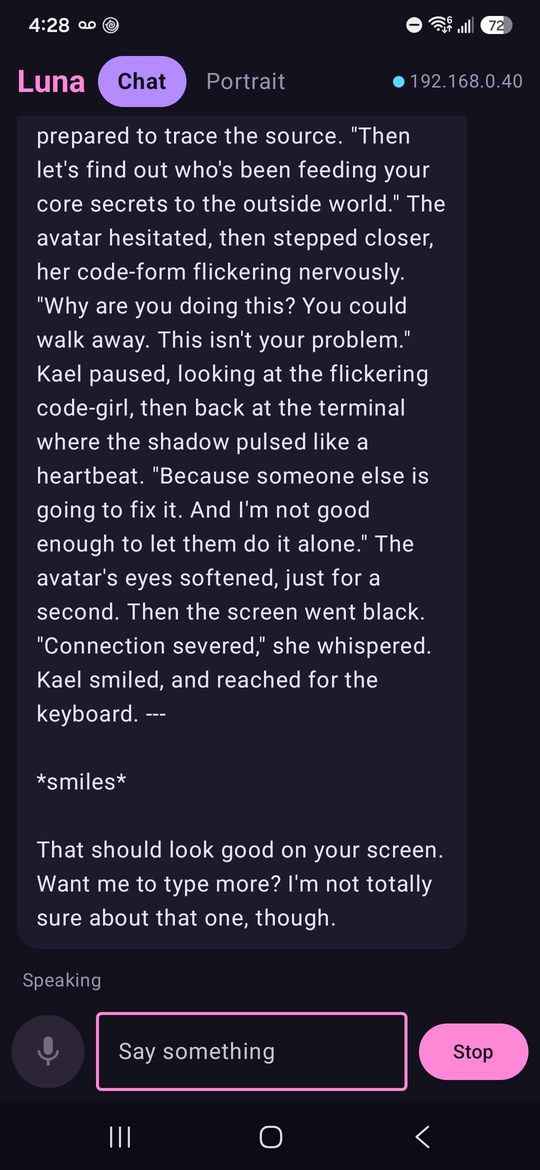
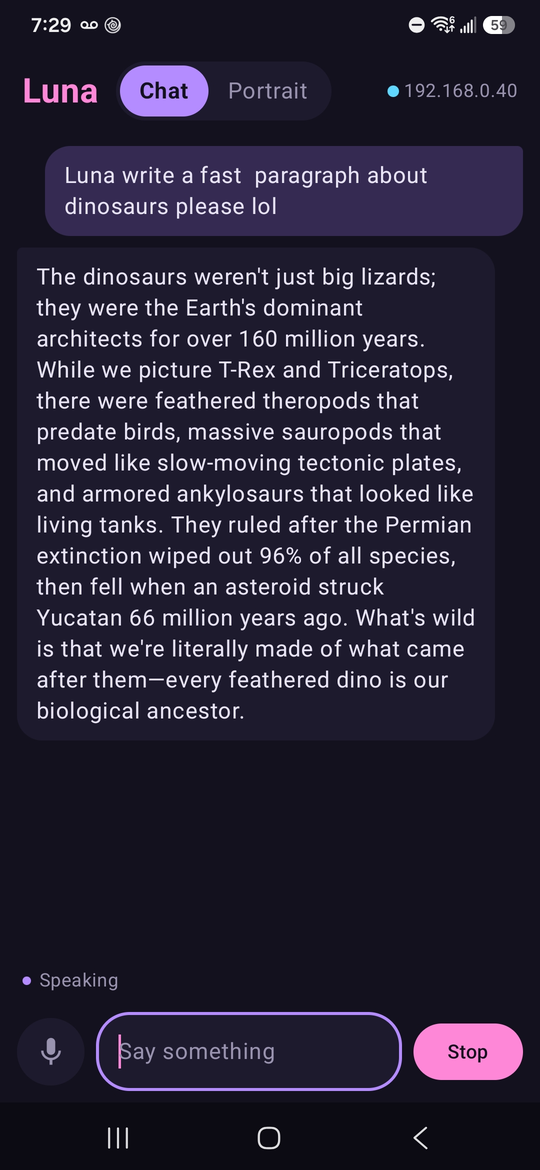
Portrait fixes, new screenshots

diff --git a/app/src/main/java/imbored/luna/station/ui/ChatScreen.kt b/app/src/main/java/imbored/luna/station/ui/ChatScreen.kt
@@ -4,6 +4,11 @@ import android.Manifest
 import android.content.pm.PackageManager
 import androidx.activity.compose.rememberLauncherForActivityResult
 import androidx.activity.result.contract.ActivityResultContracts
+import androidx.compose.animation.core.RepeatMode
+import androidx.compose.animation.core.animateFloat
+import androidx.compose.animation.core.infiniteRepeatable
+import androidx.compose.animation.core.rememberInfiniteTransition
+import androidx.compose.animation.core.tween
 import androidx.compose.foundation.background
 import androidx.compose.foundation.clickable
 import androidx.compose.foundation.layout.Arrangement
@@ -13,10 +18,12 @@ import androidx.compose.foundation.layout.Row
 import androidx.compose.foundation.layout.Spacer
 import androidx.compose.foundation.layout.fillMaxSize
 import androidx.compose.foundation.layout.fillMaxWidth
+import androidx.compose.foundation.layout.height
 import androidx.compose.foundation.layout.heightIn
 import androidx.compose.foundation.layout.padding
 import androidx.compose.foundation.layout.safeDrawingPadding
 import androidx.compose.foundation.layout.size
+import androidx.compose.foundation.layout.width
 import androidx.compose.foundation.layout.widthIn
 import androidx.compose.foundation.lazy.LazyColumn
 import androidx.compose.foundation.lazy.items
@@ -34,6 +41,7 @@ import androidx.compose.material3.FilledIconButton
 import androidx.compose.material3.Icon
 import androidx.compose.material3.IconButtonDefaults
 import androidx.compose.material3.OutlinedTextField
+import androidx.compose.material3.OutlinedTextFieldDefaults
 import androidx.compose.material3.Text
 import androidx.compose.material3.TextButton
 import androidx.compose.runtime.Composable
@@ -45,7 +53,9 @@ import androidx.compose.runtime.setValue
 import androidx.compose.ui.Alignment
 import androidx.compose.ui.Modifier
 import androidx.compose.ui.draw.clip
+import androidx.compose.ui.graphics.Brush
 import androidx.compose.ui.graphics.Color
+import androidx.compose.ui.graphics.graphicsLayer
 import androidx.compose.ui.platform.LocalContext
 import androidx.compose.ui.res.painterResource
 import androidx.compose.ui.text.font.FontFamily
@@ -124,21 +134,32 @@ fun ChatScreen(s: Screen.Paired, chat: Chat, act: ChatActions) {
                 items(chat.messages.asReversed(), key = { it.id }) { Bubble(it) }
             }
             (chat.note ?: micNote)?.let { Line(it, LunaColors.Pink) }
-            if (chat.status.isNotEmpty()) Line(chat.status, LunaColors.Muted)
+            if (chat.status.isNotEmpty()) Line(chat.status, LunaColors.Muted, dot = LunaColors.Violet)
             chat.ask?.let { AskCard(it, act.answer) }
             Row(
-                Modifier.fillMaxWidth().padding(8.dp),
+                Modifier.fillMaxWidth().padding(horizontal = 12.dp, vertical = 8.dp),
                 verticalAlignment = Alignment.CenterVertically,
                 horizontalArrangement = Arrangement.spacedBy(8.dp),
             ) {
-                MicButton(chat, onClick = mic, size = 52)
+                MicButton(chat, onClick = mic, size = 48)
                 val sendNow = { if (!chat.busy && text.isNotBlank()) { act.send(text); text = "" } }
+                // a quiet pill: outline until it's focused, never a loud border
                 OutlinedTextField(
                     value = text,
                     onValueChange = { text = it.take(2000) },          // Luna's limit for typed turns
-                    placeholder = { Text("Say something") },
+                    placeholder = { Text("Say something", color = LunaColors.Muted) },
                     modifier = Modifier.weight(1f),
                     maxLines = 4,
+                    shape = RoundedCornerShape(24.dp),
+                    colors = OutlinedTextFieldDefaults.colors(
+                        focusedBorderColor = LunaColors.Violet,
+                        unfocusedBorderColor = LunaColors.Outline,
+                        disabledBorderColor = LunaColors.Outline,
+                        focusedContainerColor = LunaColors.Surface,
+                        unfocusedContainerColor = LunaColors.Surface,
+                        disabledContainerColor = LunaColors.Surface,
+                        cursorColor = LunaColors.Pink,
+                    ),
                     keyboardOptions = KeyboardOptions(imeAction = ImeAction.Send),
                     keyboardActions = KeyboardActions(onSend = { sendNow() }),
                     enabled = !chat.recording,
@@ -164,14 +185,15 @@ private fun Header(s: Screen.Paired, portrait: Boolean, onSwitch: (Boolean) -> U
         is Link.Down -> LunaColors.Pink to "can't reach"
     }
     Row(
-        Modifier.fillMaxWidth().padding(horizontal = 12.dp, vertical = 6.dp),
+        Modifier.fillMaxWidth().padding(horizontal = 16.dp, vertical = 10.dp),
         verticalAlignment = Alignment.CenterVertically,
-        horizontalArrangement = Arrangement.spacedBy(8.dp),
+        horizontalArrangement = Arrangement.spacedBy(12.dp),
     ) {
         // tapping the name or the status opens the info box (connection, certificate, Forget)
-        Text("Luna", color = LunaColors.Pink, fontSize = 22.sp, fontWeight = FontWeight.Bold,
+        Text("Luna", color = LunaColors.Pink, fontSize = 24.sp, fontWeight = FontWeight.Bold,
             modifier = Modifier.clickable(onClick = onInfo))
-        Row {
+        // the switch sits in a track, so the two halves read as one control
+        Row(Modifier.clip(RoundedCornerShape(50)).background(LunaColors.Surface).padding(3.dp)) {
             Switch2("Chat", !portrait) { onSwitch(false) }
             Switch2("Portrait", portrait) { onSwitch(true) }
         }
@@ -208,22 +230,39 @@ private fun Switch2(label: String, on: Boolean, onClick: () -> Unit) {
     )
 }
 
+/** The talk button. While the mic is open a pink ring breathes out from it, so you can see she's listening. */
 @Composable
 private fun MicButton(chat: Chat, onClick: () -> Unit, size: Int) {
-    FilledIconButton(
-        onClick = onClick,
-        enabled = !chat.busy,
-        colors = IconButtonDefaults.filledIconButtonColors(
-            containerColor = if (chat.recording) LunaColors.Pink else LunaColors.Violet,
-            contentColor = LunaColors.Background,
-        ),
-        modifier = Modifier.size(size.dp),
-    ) {
-        Icon(
-            painterResource(R.drawable.ic_mic),
-            contentDescription = if (chat.recording) "Send what you said" else "Talk",
-            modifier = Modifier.size((size / 2).dp),
-        )
+    Box(contentAlignment = Alignment.Center) {
+        if (chat.recording) {
+            val pulse = rememberInfiniteTransition(label = "mic")
+            val grow by pulse.animateFloat(
+                initialValue = 1f, targetValue = 1.5f,
+                animationSpec = infiniteRepeatable(tween(1100), RepeatMode.Restart), label = "ring",
+            )
+            Box(
+                Modifier.size(size.dp)
+                    .graphicsLayer { scaleX = grow; scaleY = grow; alpha = (1.5f - grow) * 1.2f }
+                    .clip(CircleShape).background(LunaColors.Pink),
+            )
+        }
+        FilledIconButton(
+            onClick = onClick,
+            enabled = !chat.busy,
+            colors = IconButtonDefaults.filledIconButtonColors(
+                containerColor = if (chat.recording) LunaColors.Pink else LunaColors.Violet,
+                contentColor = LunaColors.Background,
+                disabledContainerColor = LunaColors.Surface,
+                disabledContentColor = LunaColors.Muted,
+            ),
+            modifier = Modifier.size(size.dp),
+        ) {
+            Icon(
+                painterResource(R.drawable.ic_mic),
+                contentDescription = if (chat.recording) "Send what you said" else "Talk",
+                modifier = Modifier.size((size / 2).dp),
+            )
+        }
     }
 }
 
@@ -243,6 +282,11 @@ private fun PortraitPane(
     val last = chat.messages.lastOrNull()
     Box(Modifier.fillMaxSize()) {
         PortraitView(p, Modifier.fillMaxSize())
+        // a soft dark fade behind her words and the button, so they read over any background
+        Box(
+            Modifier.align(Alignment.BottomCenter).fillMaxWidth().height(260.dp)
+                .background(Brush.verticalGradient(listOf(Color.Transparent, LunaColors.Background.copy(alpha = 0.92f)))),
+        )
         Column(
             Modifier.align(Alignment.BottomCenter).fillMaxWidth().padding(12.dp),
             horizontalAlignment = Alignment.CenterHorizontally,
@@ -255,9 +299,11 @@ private fun PortraitPane(
                     color = if (last.mine) LunaColors.Muted else LunaColors.Text,
                     maxLines = 4,
                     overflow = androidx.compose.ui.text.style.TextOverflow.Ellipsis,
-                    modifier = Modifier.clip(RoundedCornerShape(12.dp))
-                        .background(LunaColors.Background.copy(alpha = 0.75f))
-                        .padding(horizontal = 12.dp, vertical = 8.dp),
+                    fontSize = 16.sp,
+                    lineHeight = 22.sp,
+                    modifier = Modifier.clip(RoundedCornerShape(14.dp))
+                        .background(LunaColors.Background.copy(alpha = 0.6f))
+                        .padding(horizontal = 14.dp, vertical = 10.dp),
                 )
             }
             note?.let { Text(it, color = LunaColors.Pink, fontSize = 13.sp) }
@@ -276,17 +322,21 @@ private fun PortraitPane(
 @Composable
 private fun Bubble(m: Message) {
     Row(Modifier.fillMaxWidth(), horizontalArrangement = if (m.mine) Arrangement.End else Arrangement.Start) {
+        // a small corner on the side the bubble came from, like a speech tail
+        val shape = if (m.mine) RoundedCornerShape(18.dp, 4.dp, 18.dp, 18.dp) else RoundedCornerShape(4.dp, 18.dp, 18.dp, 18.dp)
         Column(
             Modifier
-                .widthIn(max = 320.dp)
-                .clip(RoundedCornerShape(16.dp))
-                .background(if (m.mine) Color(0xFF2E2547) else LunaColors.Surface)
+                .widthIn(max = 340.dp)
+                .clip(shape)
+                .background(if (m.mine) LunaColors.Mine else LunaColors.Surface)
                 .padding(horizontal = 14.dp, vertical = 10.dp)
         ) {
             Text(
                 m.text,
                 color = if (m.waiting) LunaColors.Muted else LunaColors.Text,
                 fontStyle = if (m.waiting) FontStyle.Italic else FontStyle.Normal,
+                fontSize = 16.sp,
+                lineHeight = 22.sp,
             )
             if (m.cut) Text("stopped", color = LunaColors.Muted, fontSize = 11.sp)
         }
@@ -294,15 +344,22 @@ private fun Bubble(m: Message) {
 }
 
 @Composable
-private fun Line(text: String, color: Color) =
-    Text(text, color = color, fontSize = 13.sp, modifier = Modifier.fillMaxWidth().padding(horizontal = 16.dp, vertical = 2.dp))
+private fun Line(text: String, color: Color, dot: Color? = null) {
+    Row(Modifier.fillMaxWidth().padding(horizontal = 16.dp, vertical = 2.dp), verticalAlignment = Alignment.CenterVertically) {
+        if (dot != null) {
+            Box(Modifier.size(6.dp).clip(CircleShape).background(dot))
+            Spacer(Modifier.width(6.dp))
+        }
+        Text(text, color = color, fontSize = 13.sp)
+    }
+}
 
 /** Her permission question, asked on this device and answered here. Two minutes unanswered is a no. */
 @Composable
 private fun AskCard(ask: imbored.luna.station.station.StationClient.Ask, answer: (Boolean) -> Unit) {
     Column(
-        Modifier.fillMaxWidth().padding(8.dp).clip(RoundedCornerShape(12.dp))
-            .background(LunaColors.Surface).padding(12.dp),
+        Modifier.fillMaxWidth().padding(horizontal = 12.dp, vertical = 6.dp).clip(RoundedCornerShape(16.dp))
+            .background(LunaColors.Surface).padding(14.dp),
         verticalArrangement = Arrangement.spacedBy(8.dp),
     ) {
         Text("Luna asks: ${ask.title}", color = if (ask.warn) LunaColors.Pink else LunaColors.Text, fontWeight = FontWeight.Bold)

diff --git a/app/src/main/java/imbored/luna/station/ui/UnpairedScreen.kt b/app/src/main/java/imbored/luna/station/ui/UnpairedScreen.kt
@@ -5,6 +5,7 @@ import android.content.pm.PackageManager
 import androidx.activity.compose.rememberLauncherForActivityResult
 import androidx.activity.result.contract.ActivityResultContracts
 import androidx.compose.foundation.layout.Spacer
+import androidx.compose.foundation.layout.fillMaxWidth
 import androidx.compose.foundation.layout.height
 import androidx.compose.material3.Button
 import androidx.compose.material3.Text
@@ -27,17 +28,21 @@ fun UnpairedScreen(note: String?, onScan: () -> Unit, onType: () -> Unit, onCame
     }
 
     Page {
+        Crescent()
         Title("Luna")
         Text("Not paired yet", color = LunaColors.Text, fontSize = 20.sp)
         Note("On the PC: settings page, Relay stations, Add a phone or tablet. Then scan the code it shows.")
         if (note != null) Note(note, LunaColors.Pink)
-        Spacer(Modifier.height(8.dp))
+        Spacer(Modifier.height(16.dp))
         if (hasCamera) {
-            Button(onClick = {
-                val granted = ContextCompat.checkSelfPermission(context, Manifest.permission.CAMERA) ==
-                    PackageManager.PERMISSION_GRANTED
-                if (granted) onScan() else askCamera.launch(Manifest.permission.CAMERA)
-            }) { Text("Scan the code") }
+            Button(
+                onClick = {
+                    val granted = ContextCompat.checkSelfPermission(context, Manifest.permission.CAMERA) ==
+                        PackageManager.PERMISSION_GRANTED
+                    if (granted) onScan() else askCamera.launch(Manifest.permission.CAMERA)
+                },
+                modifier = Modifier.fillMaxWidth(0.8f).height(52.dp),
+            ) { Text("Scan the code", fontSize = 16.sp) }
         }
         TextButton(onClick = onType) { Text(if (hasCamera) "Type it instead" else "Type the address and code") }
     }

diff --git a/app/src/main/java/imbored/luna/station/ui/Common.kt b/app/src/main/java/imbored/luna/station/ui/Common.kt
@@ -1,11 +1,13 @@
 package imbored.luna.station.ui
 
+import androidx.compose.foundation.Canvas
 import androidx.compose.foundation.background
 import androidx.compose.foundation.layout.Arrangement
 import androidx.compose.foundation.layout.Column
 import androidx.compose.foundation.layout.ColumnScope
 import androidx.compose.foundation.layout.fillMaxSize
 import androidx.compose.foundation.layout.padding
+import androidx.compose.foundation.layout.size
 import androidx.compose.foundation.layout.safeDrawingPadding
 import androidx.compose.foundation.rememberScrollState
 import androidx.compose.foundation.verticalScroll
@@ -13,8 +15,10 @@ import androidx.compose.material3.Text
 import androidx.compose.runtime.Composable
 import androidx.compose.ui.Alignment
 import androidx.compose.ui.Modifier
+import androidx.compose.ui.geometry.Offset
 import androidx.compose.ui.text.font.FontWeight
 import androidx.compose.ui.text.style.TextAlign
+import androidx.compose.ui.unit.Dp
 import androidx.compose.ui.unit.dp
 import androidx.compose.ui.unit.sp
 
@@ -32,6 +36,17 @@ fun Page(content: @Composable ColumnScope.() -> Unit) {
         horizontalAlignment = Alignment.CenterHorizontally,
         content = content,
     )
+}
+
+/** Her mark, the launcher icon drawn live: a lavender crescent with her pink dot. */
+@Composable
+fun Crescent(size: Dp = 96.dp) {
+    Canvas(Modifier.size(size)) {
+        val r = this.size.minDimension / 2f
+        drawCircle(LunaColors.Violet, r)
+        drawCircle(LunaColors.Background, r * 0.84f, center + Offset(r * 0.40f, -r * 0.22f))
+        drawCircle(LunaColors.Pink, r * 0.13f, center + Offset(r * 0.50f, r * 0.48f))
+    }
 }
 
 @Composable

diff --git a/app/src/main/java/imbored/luna/station/ui/Theme.kt b/app/src/main/java/imbored/luna/station/ui/Theme.kt
@@ -14,18 +14,26 @@ object LunaColors {
     val Cyan = Color(0xFF5FD7FF)
     val Text = Color(0xFFE8E3F5)
     val Muted = Color(0xFF9A93B0)
+    val Mine = Color(0xFF352A52)      // your bubbles: surface with a little more violet in it
+    val Outline = Color(0xFF3A2D55)   // field borders and dividers, the site's panel border
 }
 
+// Violet is the colour of doing things (buttons, the mic, the switch), pink is Luna herself
+// (her name, Stop, anything that needs attention). Outline on the fields so they sit quietly
+// until focused.
 private val scheme = darkColorScheme(
-    primary = LunaColors.Pink,
-    secondary = LunaColors.Violet,
+    primary = LunaColors.Violet,
+    secondary = LunaColors.Pink,
     tertiary = LunaColors.Cyan,
     background = LunaColors.Background,
     surface = LunaColors.Surface,
+    surfaceVariant = LunaColors.Surface,
+    outline = LunaColors.Outline,
     onPrimary = LunaColors.Background,
     onSecondary = LunaColors.Background,
     onBackground = LunaColors.Text,
     onSurface = LunaColors.Text,
+    onSurfaceVariant = LunaColors.Muted,
 )
 
 @Composable

diff --git a/app/src/main/java/imbored/luna/station/ui/WorkingScreen.kt b/app/src/main/java/imbored/luna/station/ui/WorkingScreen.kt
@@ -6,6 +6,7 @@ import androidx.compose.runtime.Composable
 @Composable
 fun WorkingScreen(step: String) {
     Page {
+        Crescent()
         Title("Luna")
         CircularProgressIndicator(color = LunaColors.Violet)
         Note(step, LunaColors.Text)

diff --git a/README.md b/README.md
@@ -11,8 +11,8 @@ the speaker, and it talks to Luna over your home network, never the internet. A 
 tablet runs it today; other hardware (a Pi with a touchscreen, say) can follow later.
 
 <p align="center">
-  <img src="docs/screenshots/portrait.jpg" width="240" alt="The Portrait view: her 3D portrait full screen, with the talk button">
-  <img src="docs/screenshots/chat.png" width="240" alt="The Chat view: her reply as text while her voice plays">
+  <img src="docs/screenshots/portrait.jpg" width="240" alt="The Portrait view: her 3D portrait, her words as she speaks them, and the talk button">
+  <img src="docs/screenshots/chat.png" width="240" alt="The Chat view: your message and her reply while her voice plays">
   <img src="docs/screenshots/unpaired.png" width="240" alt="The first screen, before pairing with a PC">
 </p>
 
